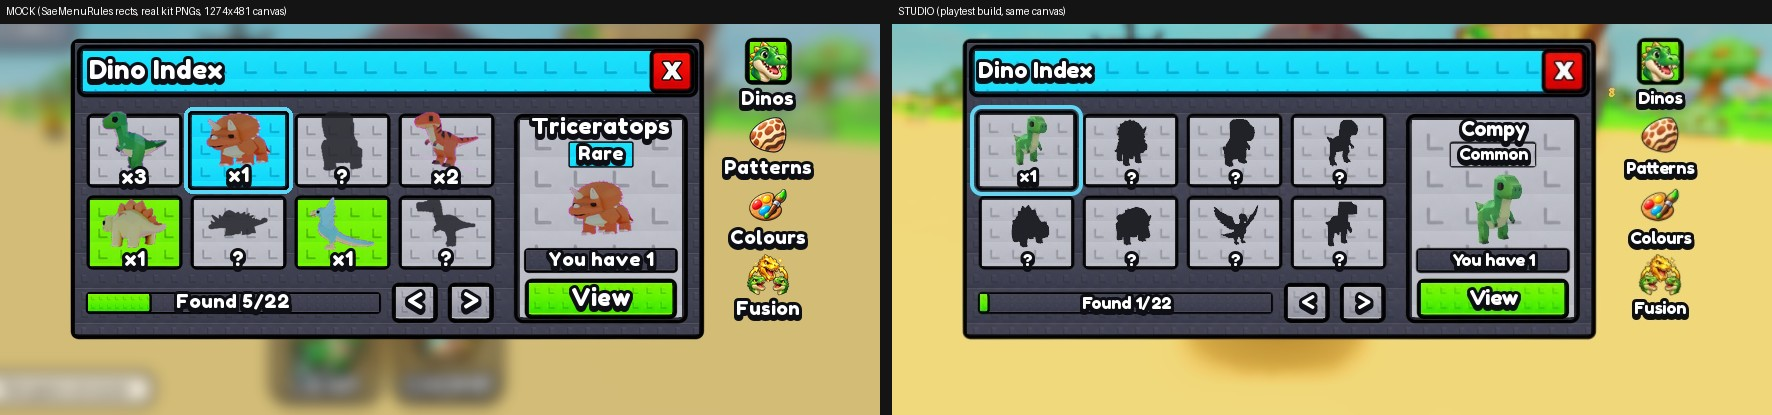
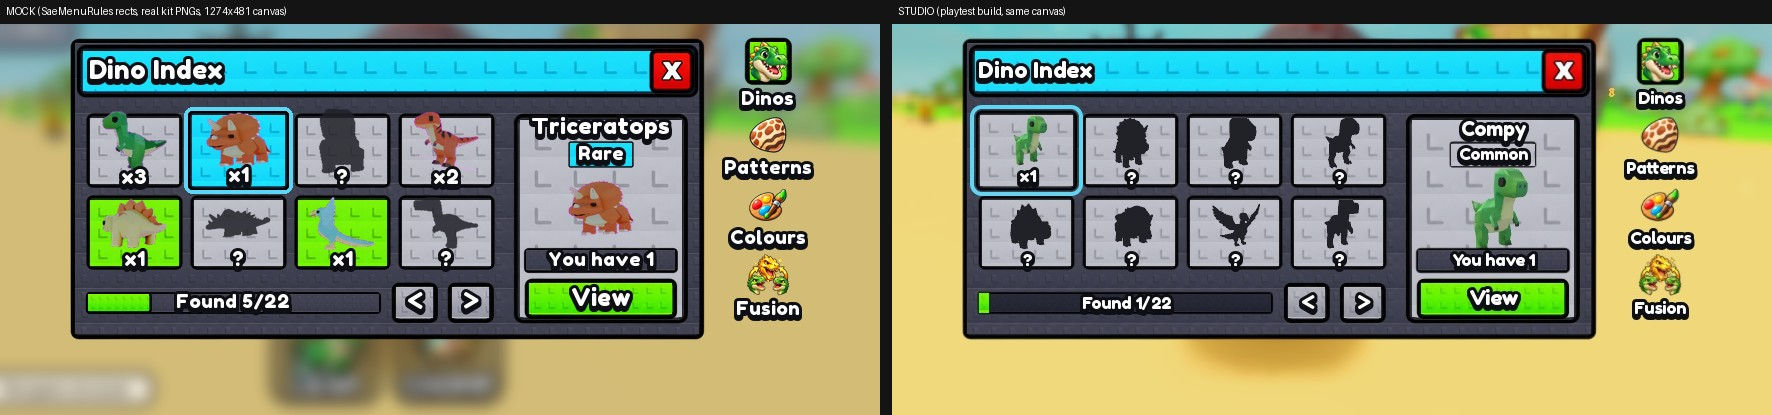
BD-1296: Dino Index polish round 2 (ChatGPT 7.9) - panel dino +18 %, silhouettes +9 %, Found bar on a darker track with a brighter thin-edged fill and an 11 px minimum at 720 p (exact maths kept)

diff --git a/tools/verify_sae_frame.py b/tools/verify_sae_frame.py
@@ -248,6 +248,8 @@ check(M.LookWord == "View" and M.NotFoundWord == "Not found yet!" and M.NoneWord
 check(M.CardZoom >= .25 and M.PanelZoom >= .25 and M.SilhouetteZoom >= .2, "the dino previews fill their cards (zoomed preview boxes)")
 check(I.panelParts.badge >= 19 + 6 and I.panelParts.renderTop >= I.panelParts.edge + I.panelParts.nameText + I.panelParts.badge, "the rarity badge under the name, above the dino")
 check(near(P.band.h, 48, 52), "the owned strip 48-52 px at 720 p")
+check(near(I.bar.minFill, 10, 12), "a found dino shows at least 10-12 px of fill at 720 p (lead polish round 2)")
+check(M.PanelZoom >= .4 and M.SilhouetteZoom >= .28, "lead polish round 2: the panel dino and the silhouettes bigger")
 check(near(I.headerH / 720, .095, .105) and near(I.titleSize, 36, 40), "Index header 9.5-10 % H, title 36-40 px")
 check(M.IndexTitle == "Dino Index" and M.IndexColour == "cyan" and M.IndexRail[1] == "dinos" and M.IndexRail[2] == "patterns" and M.IndexRail[3] == "colours", "one cyan title; Dinos / Patterns / Colours on the rail")
 for _, L in {P, I} do
@@ -344,7 +346,8 @@ def scan2(src):
     need('Art.studded(holder, "KitTabTile_" .. tab, Kit2.buttonSlot(false),' in src['rail'] and '        if selected then\n            -- BD-1296' in src['rail'], 'KitRail: the active tab sits on the lime kit tile (every kit screen)')
     need('function W.potionsIn(secondsLeft: number): string' in src['timer'] and 'return "New in " .. UIFormat.duration(secondsLeft)' in src['timer'], 'New potions in 2 min is its own function; the Toybox page keeps restockIn')
     need('if shade and gold=="silhouette" then viewport:SetAttribute("SilhouetteShade",shade) end' in src['preview'], 'the charcoal silhouette is opt-in (the old Index keeps black)')
-    need('local fill = if total > 0 then math.floor(B.w * unlocked / total + 0.5) else 0' in index, 'the progress fill is exact (1/22 = 4.5 %)')
+    need('local fill = if total > 0 then math.floor(B.w * unlocked / total + 0.5) else 0' in index and 'if unlocked > 0 then fill = math.max(fill, B.minFill) end' in index
+         and 'piece.ImageColor3 = TRACK' in index, 'the progress fill is exact with a visible minimum, on a darker track')
     need('K.HeaderCards = {cyan = "rare"}' in src['kit2'], 'the cyan header is the kit 2 Rare card piece')
     need('function Tabs.choose(tab: string) lastTab = Index.validTab(tab) end' in src['tabs'], 'IndexTabs.choose keeps the tab valid')
     need('M.Potion = {w = 0.58, h = 0.67,' in src['rules'] and 'M.Index = {w = 0.50, h = 0.63,' in src['rules'], 'docs/246 window sizes')
@@ -363,6 +366,7 @@ MUTANTS = {
     'a colour fill in the potion screen': ('potion', 'local M = {}', 'local M = {}\nlocal _x = Instance.new("Frame") _x.BackgroundColor3 = Color3.new(1, 0, 0)'),
     'the active rail tab loses its tile': ('rail', '        if selected then\n            -- BD-1296', '        if false then\n            -- BD-1296'),
     'the progress fill rounds up to a square': ('index', 'local fill = if total > 0 then math.floor(B.w * unlocked / total + 0.5) else 0', 'local fill = math.max(B.h, math.floor(B.w * unlocked / total + 0.5))'),
+    'one found dino shows no fill': ('index', 'if unlocked > 0 then fill = math.max(fill, B.minFill) end', ''),
     'the Index window at shop size': ('rules', 'M.Index = {w = 0.50, h = 0.63,', 'M.Index = {w = 0.58, h = 0.67,'),
 }
 LUAU_MUTANTS = {

diff --git a/tools/mock_menus_slice2.py b/tools/mock_menus_slice2.py
@@ -297,7 +297,7 @@ def index_mock(L, runner, w, h, inset, dinos):
             ImageDraw.Draw(canvas).rounded_rectangle((x - 2, y - 2, x + cw + 1, y + ch + 1), radius=8, outline=(92, 214, 245, 255), width=4)
         rend = lay['cardRender']
         ry = max(4, (ch - (rend + lay['countText'] + 2)) // 2)
-        big = round(rend * (1.4 if n > 0 else 1.3))  # the game zooms its preview boxes; the cutouts have no margin, so a smaller factor
+        big = round(rend * (1.4 if n > 0 else 1.42))  # the game zooms its preview boxes; the cutouts have no margin, so a smaller factor
         picture(canvas, Path(dinos) / (DINO_FILES.get(sid, sid) + '.png'), x + (cw - big) // 2, y + ry + (rend - big) // 2, big, big, silhouette=n == 0)
         words(canvas, f'x{n}' if n > 0 else '?', x, y + ry + rend - 2, cw, lay['countText'] + 4, lay['countText'])
     p, pp = lay['panel'], lay['panelParts']
